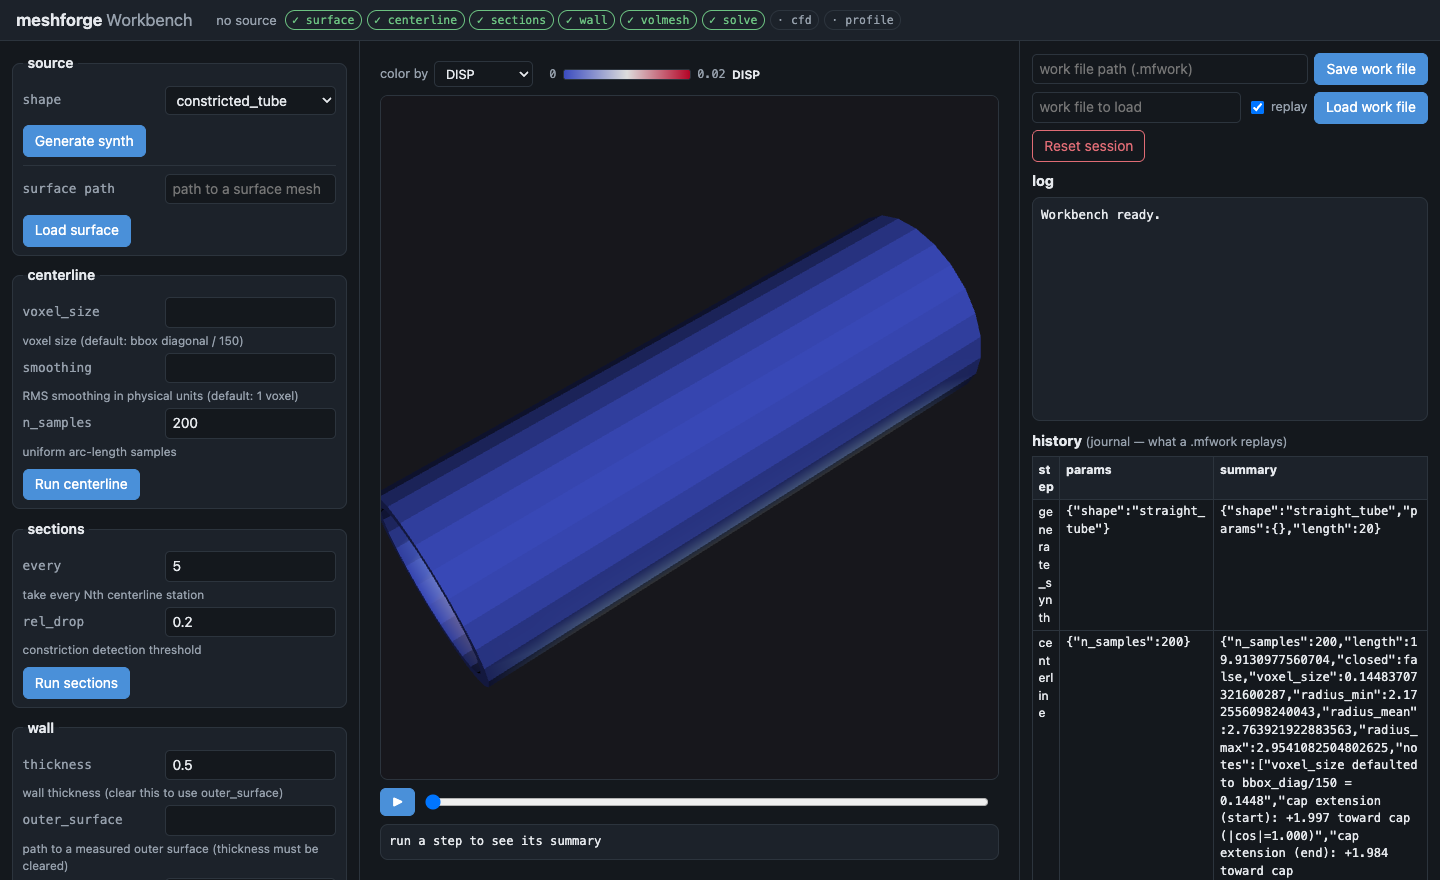
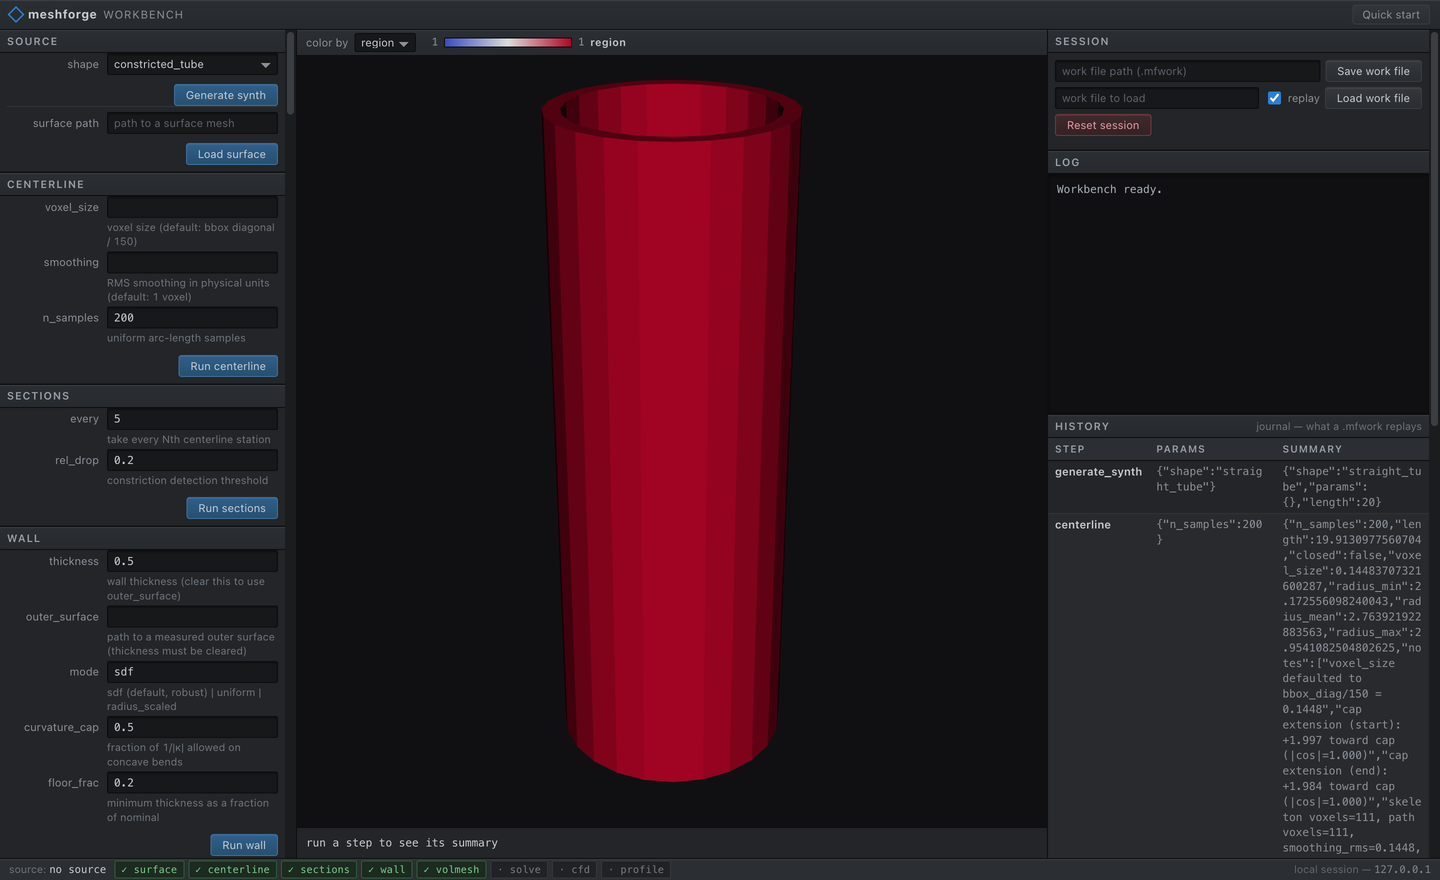
docs: regenerate both Workbench screenshots on the new chrome
Both tutorial figures showed the old web-form styling, and workbench_meshed.png
was the image where the collapsed history step column ("ce nt er li ne") was
visible. Retaken at 1440x880 against a live 127.0.0.1 session driven through
the section 4 happy path, so the numbers behind the meshed shot are the ones
the tutorial quotes verbatim: 792 cells, inverted 0, sj_min 0.9886, volume
200.833.

Captured through QtWebEngine rather than headless Chrome, which does not
composite the vtk.js canvas - it produced zero saturated pixels in the
viewport region against 124018 in the reference image. The recipe in section
10 now says so and carries the working snippet.

diff --git a/docs/TUTORIAL.md b/docs/TUTORIAL.md
@@ -220,15 +220,27 @@ screenshot (volmesh, centerline) -> outputs/session.png
 >      -d '{"n_theta":24,"n_axial":12,"n_layers":3}'
 > ```
 >
-> Then open `http://127.0.0.1:8731/app/` in a **real browser window** sized to
-> 1440×880 and capture it (macOS: `Cmd-Shift-4`, then Space, then click the
-> window). Headless capture works for the *empty* Workbench —
+> Then capture the page at 1440×880. **Headless Chrome will not work for any
+> shot containing the 3-D viewport** — it does not composite the vtk.js WebGL
+> canvas, so the viewport comes out empty. Grab it through QtWebEngine instead
+> (the same engine the desktop shell uses, so it renders on the real GPU):
 >
-> ```bash
-> chrome --headless=new --window-size=1440,880 --hide-scrollbars \
->        --force-device-scale-factor=1 --virtual-time-budget=8000 \
->        --screenshot=docs/images/workbench_overview.png http://127.0.0.1:8731/app/
+> ```python
+> # needs the [desktop] extra: conda install -c conda-forge pyside6 qt6-webengine
+> import sys
+> from PySide6.QtCore import QTimer, QUrl
+> from PySide6.QtWidgets import QApplication
+> from PySide6.QtWebEngineWidgets import QWebEngineView
+>
+> app = QApplication(sys.argv)
+> view = QWebEngineView()
+> view.setFixedSize(1440, 880)
+> view.load(QUrl("http://127.0.0.1:8731/app/"))
+> view.show()
+> QTimer.singleShot(9000, lambda: (view.grab().save("shot.png"), app.quit()))
+> sys.exit(app.exec())
 > ```
 >
-> — but **not** for any shot containing the 3-D viewport: headless Chrome does
-> not composite the vtk.js WebGL canvas, so the viewport comes out empty.
+> On a retina display that grabs at 2×; downscale to 1440×880 with LANCZOS.
+> A screen capture of a real browser window (macOS: `Cmd-Shift-4`, Space, click)
+> works too.
